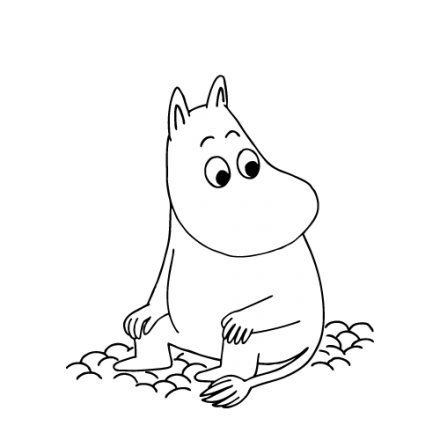
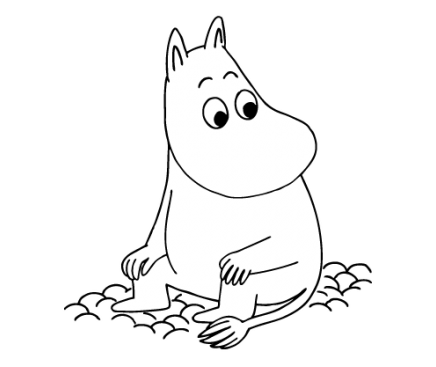
1

diff --git a/index.css b/index.css
@@ -34,17 +34,19 @@ h3{
 }
 .start {
     text-align:center;
+    padding:0px;
+    margin:0px;
+    line-height: 1.4em;
     width: 100%;
-    height: 100%;
-    margin: auto;
-    position: fixed;
+    min-height: 100%;
+    position: absolute;
     background-color: #1e90ff;
     z-index: 100;
 }
 
 .start img {
-    width: 440px;
-    height: 440px;
+    width: 80%;
+    max-width: 800px;
     position: relative;
 }
 

diff --git a/index.html b/index.html
@@ -11,11 +11,11 @@
 </head>
 <body>
     <div class = "start">
-        <h1>Moomin</h1>
         <br>
+        <h1>Moomin</h1>
         <h1>Dive</h1>
         <img src="moomin_start.png" id="moomin_start">
-        <br><br>
+        <br>
         <input type="button" value="Start" onclick="centeringModalSyncer();closeStart()"/>
     </div>
 
